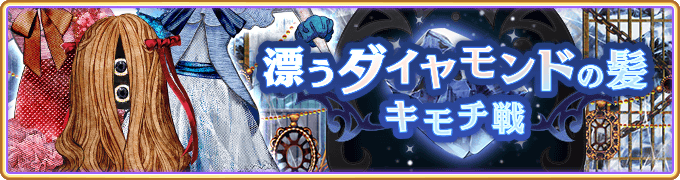
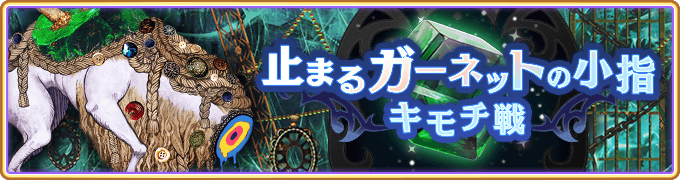
ranking updated

diff --git a/js/data.js b/js/data.js
@@ -124,8 +124,8 @@ var timerData = [
         "timers": [
 			{
 				"name": "More info coming soon",
-                "start": "oct 23 2023, 17:00",
-                "end": "nov 5 2023, 20:59",
+                "start": "oct 23 2022, 17:00",
+                "end": "nov 5 2022, 20:59",
 				markers:
 				[{title: "Story Quests 11～20 & 100 Evils Special Challenge Quests Ⅰ～Ⅲ", time: "sep 15 2023, 16:00", type: "battle"}]
 			}
@@ -153,19 +153,19 @@ var timerData = [
 	{
         "type": "Event",
         "title": [
-            "【Annoucement】Light Attribute Kimochi Battle Beautiful Pearl Eyes",
+            "【Annoucement】Forest Attribute Kimochi ～Unmoving Garnet Pinky～  ",
 			"『キモチ戦 麗しい真珠の眼』"
         ],
         "image": [
-			"imgs/battle/kimochi00.png"
+			"imgs/kimochi/kimochi00.png"
         ],
         "column": 0,
         "priority": 0,
         "timers": [
 			{
 				name: "Tentative Schedule",
-				start: "oct 16 2022, 12:00",
-				end: "oct 26 2022, 18:00",
+				start: "nov 20 2023, 12:00",
+				end: "nov 25 2023, 18:00",
 				markers:
 				[{title: "Madoka Time Slot", time: "sep 10 2023, 16:00", type: "star"}]
 			}
@@ -314,87 +314,93 @@ var timerData = [
             "imgs/events/mirrors00.png"
         ],
         "column": 0,
-        "priority": 3,
+        "priority": 1,
         "timers": [
 			{
 				name: "Auto Battle",
-				start: "June 19 2023, 17:00",
-				end: "July 2 2023, 20:59",
-				extraPriority: 100,
+                 "start": "oct 23 2023, 17:00",
+                 "end": "nov 5 2023, 20:59",
+			//	extraPriority: 100,
 				markers:
 				[
 					{
 						title: "Day 1", 
-						time: "june 19 2023, 17:00", 
+						time: "oct 23 2023, 17:00", 
 						type: "battle"
 					},
 					{
 						title: "Day 2", 
-						time: "June 20 2023, 16:00", 
+						time: "oct 24 2023, 16:00", 
 						type: "battle"
 					},
 					{
 						title: "Day 3", 
-						time: "June 21 2023, 16:00", 
+						time: "oct 25 2023, 16:00", 
 						type: "battle"
 					},
 					{
 						title: "Day 4", 
-						time: "June 22 2023, 16:00", 
+						time: "oct 26 2023, 16:00", 
 						type: "battle"
 					},
 					{
 						title: "Day 5", 
-						time: "June 23 2023, 16:00", 
+						time: "oct 27 2023, 16:00", 
 						type: "battle"
 					},
 					{
 						title: "Day 6", 
-						time: "June 24 2023, 16:00", 
+						time: "oct 28 2023, 16:00", 
 						type: "battle"
 					},
 					{
 						title: "Day 7", 
-						time: "June 25 2023, 16:00", 
+						time: "oct 29 2023, 16:00", 
 						type: "battle"
 					},
 					{
 						title: "Day 8", 
-						time: "June 26 2023, 16:00", 
+						time: "oct 30 2023, 16:00", 
 						type: "battle"
 					},
 					{
-						title: "Day 9", 
-						time: "June 27 2023, 16:00", 
+						title: "Day 9 - Happy Halloween! 🎃 ", 
+						time: "oct 31 2023, 16:00", 
 						type: "battle"
 					},
 					{
 						title: "Day 10", 
-						time: "June 28 2023, 16:00", 
+						time: "nov 1 2023, 16:00", 
 						type: "battle"
 					},
 					{
 						title: "Day 11", 
-						time: "June 29 2023, 16:00", 
+						time: "nov 2 2023, 16:00", 
 						type: "battle"
 					},
 					{
 						title: "Day 12", 
-						time: "June 30 2023, 16:00", 
+						time: "nov 3 2023, 16:00", 
 						type: "battle"
 					},
 					{
 						title: "Day 13", 
-						time: "July 1 2023, 16:00", 
+						time: "nov 4 2023, 16:00", 
 						type: "battle"
 					},
 					{
 						title: "Day 14", 
-						time: "July 2 2023, 16:00", 
+						time: "nov 5 2023, 20:59", 
 						type: "battle"
-					},
+					}
+					
 				]
-			}
+			},
+			{
+				name: "Time to collect ranking rewards",
+				start: "oct 24 2023, 16:00",
+				end: "nov 5 2023, 21:00"
+			},
         ]
     },
 	{
@@ -594,7 +600,7 @@ var timerData = [
 			"imgs/maintenance.png"
 		],
         column: 0,
-        priority: 0,
+        priority: 2,
         timers: [
             {
                 name: "",
@@ -672,7 +678,7 @@ var timerData = [
         ],
         "image": [
             "imgs/ween/regacha01.png",
-			"imgs/ween/regacha01.png"
+			"imgs/ween/regacha00.png"
         ],
         "column": 1,
         "priority": 0,
